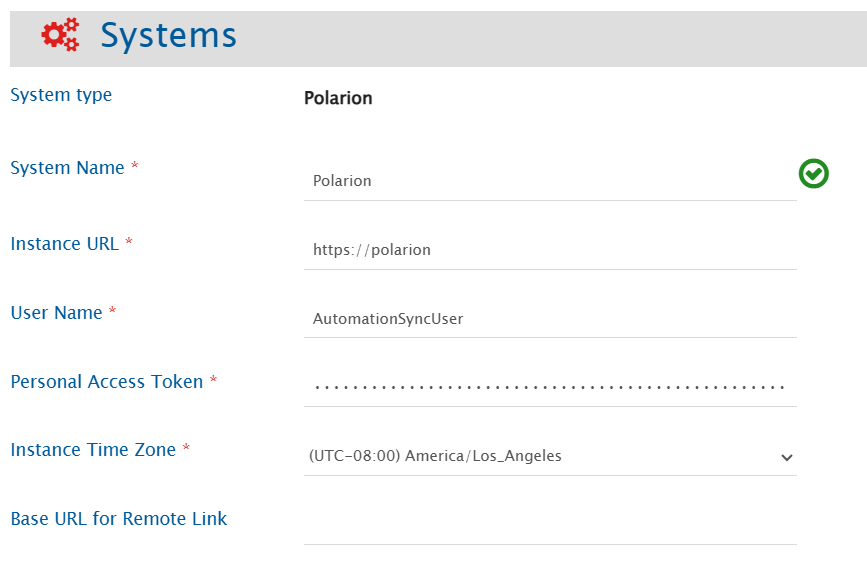
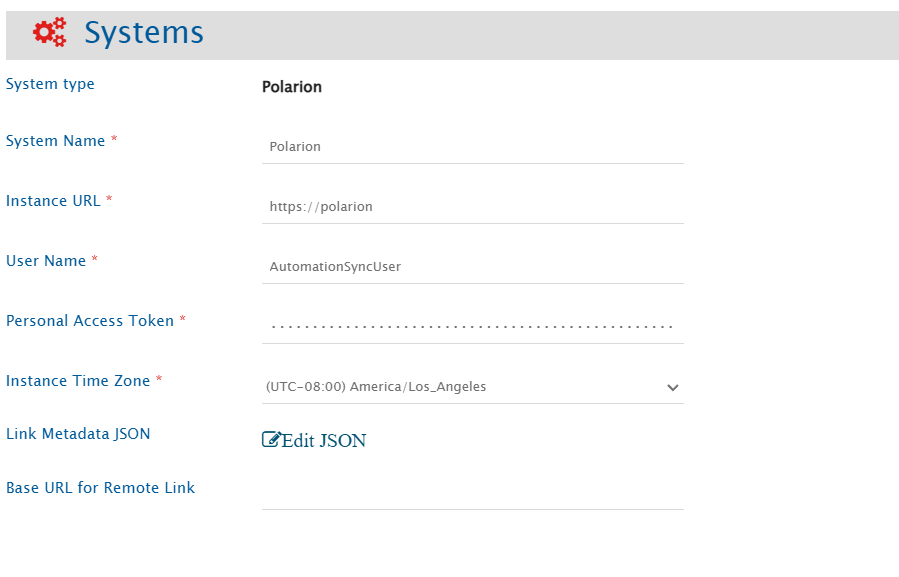
Id::277288 Type::Enhancement Reviewer::ashwini EOT::1 Status::NotDone DCC::-1 Comments::Adding link metadata json configuration for Polarion

diff --git a/docs/connectors/polarion.md b/docs/connectors/polarion.md
@@ -42,6 +42,7 @@ Refer to the screenshot below:
 | **User Name**                | Always                     | Provide the username of the dedicated user for Polarion API communication.                                                                                                                                                                                     |
 | **Personal Access Token**    | Always                     | Provide the **Personal Access Token** for the user specified in the "User Name" field. <br> Refer to [Access API Token](#get-api-token) section for details.                                                                                                   |
 | **Instance Time Zone**       | Always                     | Provide the time zone of the host machine where Polarion is installed.                                                                                                                                                                                         |
+| **Link Metadata JSON**       | Always                     | Provide link metadata for Polarion entity types in JSON format. For more details refer to [Link Metadata Configuration](#link-metadata-configuration).                                                                                                         |
 | **Base URL for Remote Link** | Always                     | Provide a different instance URL of the Polarion instance. This URL will be used for generating the Remote Link. <br> Note: If "Base URL for Remote Link" is empty, it will use default **Instance URL** to generate remote link if configured on integration. |
 
 # Mapping Configuration
@@ -103,12 +104,17 @@ Navigate to [Criteria Configuration](../integrate/integration-configuration.md/#
 
 # Known Behaviors and Limitations
 
+- History based synchronization is not supported due to API unavailability.
 - **Comments**:
   - Replies to comments or edits in Polarion will be synced as separate comments by <code class="expression">space.vars.SITENAME</code>.
 - **Project Groups**:
   - Project Groups are not visible in the Project mapping list due to API limitations; projects are listed individually.
 - **Test cases and Unit test cases in Work item**:
     - Test Steps and relation with Test Records are not supported currently.
+- **Links**
+  - For link synchronization it is required to provide link metadata for Polarion entity types in JSON format in OpsHub Integration Manager.
+    - Reason: API unavailability.
+  - The Suspect and Revision properties of a link will not be explicitly synchronized due to API limitations as these properties are auto-populated by Polarion when links are added.
 
 # Appendix
 
@@ -214,3 +220,89 @@ To get the field internal names:
     <p align="center">
       <img src="../assets/PolarionAppendix_FieldInternalName3.png" width="936"  alt=""/>
     </p>
+
+## Link Metadata Configuration
+This section includes a sample Link Metadata JSON template used for configuring links in Polarion. Modify the template according to your requirements
+<br>
+Link Metadata JSON Example:
+```json
+{
+   "entities": [
+      {
+         "internalName": "task",
+         "relationship": {
+            "linkTypes": [
+               {
+                  "linkType": "has parent",
+                  "linkTypeInternalName": "parent",
+                  "linkTypeDirection": "FORWARD",
+                  "reverseLinkType": "is parent of",
+                  "supportedAsSource": true,
+                  "supportedAsTarget": true,
+                  "mandatory": false
+               },
+               {
+                  "linkType": "is parent of",
+                  "linkTypeInternalName": "parent",
+                  "linkTypeDirection": "BACKWARD",
+                  "reverseLinkType": "has parent",
+                  "supportedAsSource": true,
+                  "supportedAsTarget": true,
+                  "mandatory": false
+               }
+            ]
+         }
+      },
+      {
+         "internalName": "epic",
+         "relationship": {
+            "linkTypes": [
+               {
+                  "linkType": "has parent",
+                  "linkTypeInternalName": "parent",
+                  "linkTypeDirection": "FORWARD",
+                  "reverseLinkType": "is parent of",
+                  "supportedAsSource": true,
+                  "supportedAsTarget": true,
+                  "mandatory": false
+               },
+               {
+                  "linkType": "is parent of",
+                  "linkTypeInternalName": "parent",
+                  "linkTypeDirection": "BACKWARD",
+                  "reverseLinkType": "has parent",
+                  "supportedAsSource": true,
+                  "supportedAsTarget": true,
+                  "mandatory": false
+               }
+            ]
+         }
+      }
+   ]
+}
+```
+<br>
+The following steps describe how to populate the Link JSON metadata values for 'linkType', 'linkTypeInternalName', 'linkTypeDirection' and other related link properties. 
+Steps:
+1. Log in to your Polarion account.
+2. Navigate to the 'Administration' section by clicking on the settings icon in the top left-hand corner of the screen. Refer to the screenshot below:
+   <p align="center">
+      <img src="../assets/PolarionAppendix_FieldInternalName1.png" width="936"  alt=""/>
+    </p>
+   <br>
+3. Navigate to 'Work Items' → 'Enumerations', open 'workitem-link-role-enum.xml', and select 'Edit'. Refer to the screenshot below for guidance.
+    <p align="center">
+      <img src="../assets/PolarionAppendix_Link_Names.png" width="936"  alt=""/>
+    </p>
+   <br>
+4. Within the enumeration file:
+   - The values listed under 'ID' represent the internal names of the links and should be mapped to the 'linkTypeInternalName' property in the JSON metadata.
+   - The values under 'Name' and 'Opposite Name' correspond to the display names of the links and should be mapped to the 'linkType' property in the JSON metadata.
+   - For entries under 'Name', the 'linkTypeDirection' property should be set to 'FORWARD', while for entries under 'Opposite Name', it should be set to 'BACKWARD'.
+   - The values of 'supportedAsSource' and 'supportedAsTarget' must be set to 'true' because Polarion supports links in both directions.
+   - The 'mandatory' property should be set to 'true' if the link is required, otherwise, it should be set to 'false'.
+    <p align="center">
+      <img src="../assets/PolarionAppendix_LinkInternalName.png" width="936"  alt=""/>
+    </p>
+   <br>
+   

diff --git a/docs/integrate/system-configuration.md b/docs/integrate/system-configuration.md
@@ -195,6 +195,8 @@ You can also directly go to the System Configuration screen by clicking the Syst
         "linkTypes": [
           {
             "linkType": "Parent Initiative",
+            "linkTypeInternalName": "parent",
+            "linkTypeDirection": "FORWARD",
             "linkCardinality": "OneToOne",
             "reverseLinkType": null,
             "mandatory": true,
@@ -287,6 +289,8 @@ You can also directly go to the System Configuration screen by clicking the Syst
         "linkTypes": [
           {
             "linkType": "Program Increments",
+            "linkTypeInternalName": "program",
+            "linkTypeDirection": "FORWARD",
             "linkCardinality": "OneToOne",
             "reverseLinkType": null,
             "mandatory": false,
@@ -295,6 +299,8 @@ You can also directly go to the System Configuration screen by clicking the Syst
           },
           {
             "linkType": "Programs",
+            "linkTypeInternalName": "program",
+            "linkTypeDirection": "BACKWARD",
             "linkCardinality": "OneToOne",
             "reverseLinkType": null,
             "mandatory": false,
